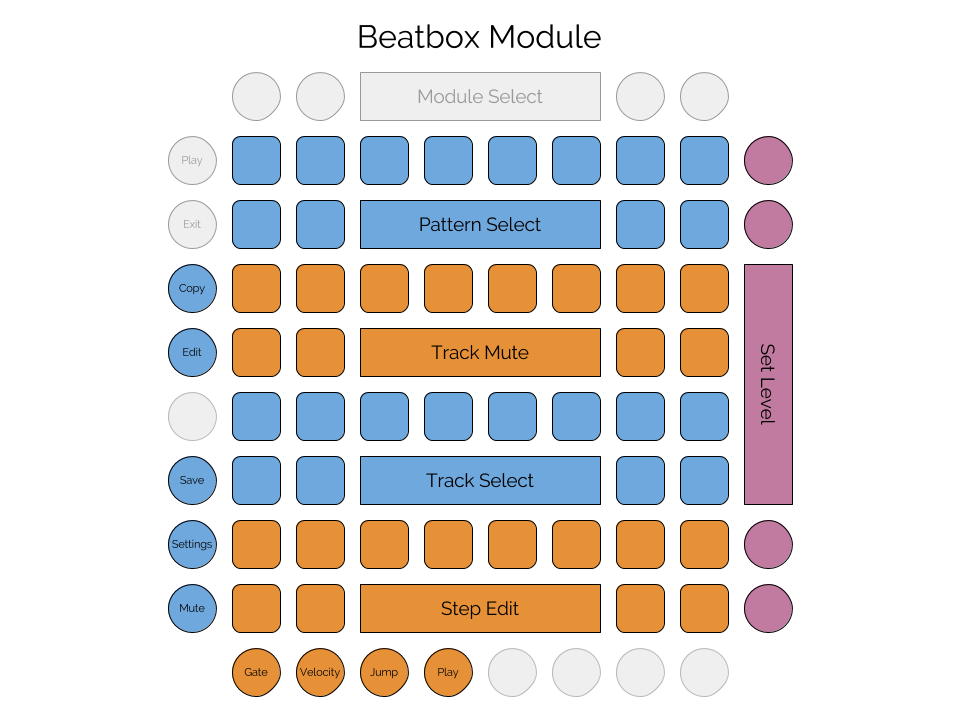
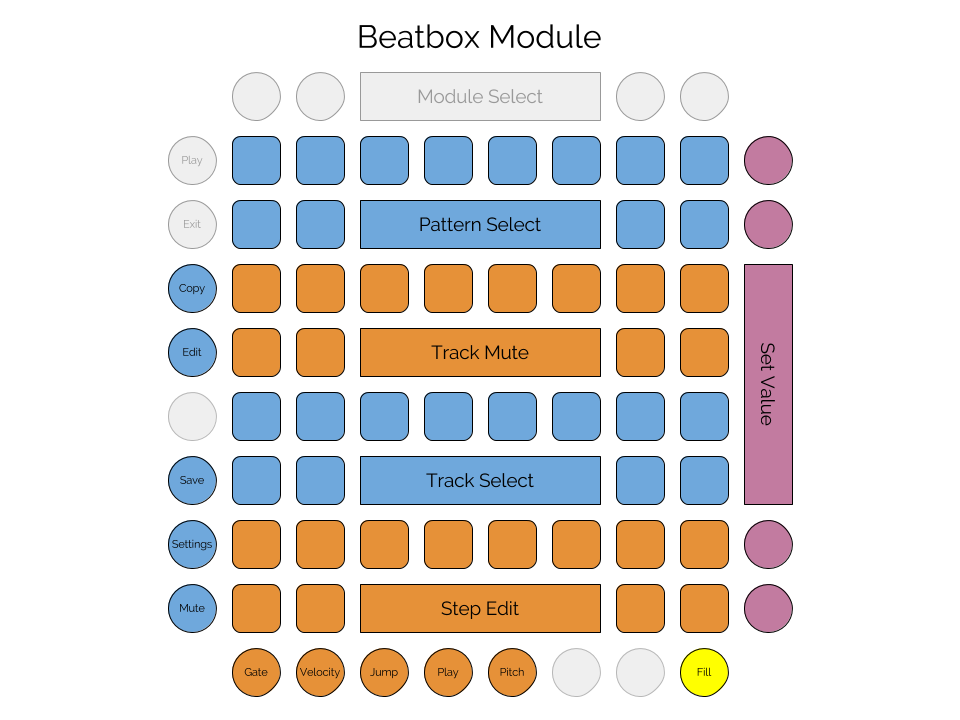
- Added pitch and fill to Beatbox doc - Updated Beatbox diagram in doc - Bumped project version, updated scripts, added release notes to README

Changed region(s): [[0.5, 0.8861, 0.5625, 0.9778], [0.6875, 0.8861, 0.7812, 0.9778], [0.7812, 0.4889, 0.8125, 0.5806]]

diff --git a/doc/hachi/modules/beat.md b/doc/hachi/modules/beat.md
@@ -45,9 +45,10 @@ Beat has a configuration option to offset
 these note numbers by a certain amount; the offset is applied to all note values. For example, including `"midiNoteOffset": 24` in the
 config file will move the whole drumkit up two octaves.
 
+
 ### Steps
 
-Steps occupy the 7th and 8th rows of the grid. Step editing has four modes, selected by the step mode pads: gate, velocity, jump, and play. 
+Steps occupy the 7th and 8th rows of the grid. Step editing has five modes, selected by the edit mode pads: gate, velocity, jump, play, and pitch. 
 In gate mode, tapping a step button toggles that step in the track between PLAY and REST, and selects it for velocity editing. 
 If the ```tiesEnabled``` configuration option is set, then tapping a step cycles through PLAY, TIE, and REST. PLAY means that the
 note will be played and any previous notes will be stopped. REST means that any previous notes will be stopped without a new note
@@ -61,6 +62,19 @@ and pressing a button will set a new value. Eight velocity values are available,
 In jump mode, the sequencer will play that step on its next clock tick, advancing normally from there. The sequence will reset to the first 
 step at the next reset. In play mode, the corresponding sound will be played immediately (not quantized). 
 
+In pitch mode, pitch bend settings can be edited for each step. Tapping a step will toggle between enabling and disabling pitch bend for that
+step. When a step is tapped, its pitch bend value can be set with the value buttons. The middle two buttons correspond to normal pitch. 
+If the receiving module has the pitch bend range set to 12 semitones, than the next button up will bend the pitch up one semitone. The
+next button will be up two semitones, and then the highest button will bend an octave up. The buttons below middle send corresponding
+pitches down. Beatbox will send pitch bend signals on its set MIDI channel for each enabled step. Pitch bend applies to the entire channel,
+so is not programmable per track; think of each pattern as having a single pitch track.
+
+
+### Fill
+
+The fill button can be used to play fills at any time. When the button is pressed, Beatbox will choose a random fill pattern and play it
+as long as the button is held down. Beatbox's fill patterns aren't actually preset patterns; they're generated by rearranging the current
+pattern in various ways to produce a fill. 
 
 
 ### Value buttons

diff --git a/README.md b/README.md
@@ -26,6 +26,11 @@ here in Github, but also via [HuBoard](https://huboard.com/perkowitz/issho#/mile
 
 # Release notes
 
+## 2017-09-13 v1.0.4
+- In Beatbox, add auto-generated fill patterns that are played when holding down the fill button
+- In Beatbox, add sequencing of pitch bend per pattern step
+- In Beatbox, fix bug where chain wouldn't reset on stop/start
+
 ## 2017-09-06 v1.0.3
 - In Step, if multiple note modifiers are added to a stage, play the notes one at a time, from low to high
 - Added framework for different multi-note modes, but implemented only low-to-high
